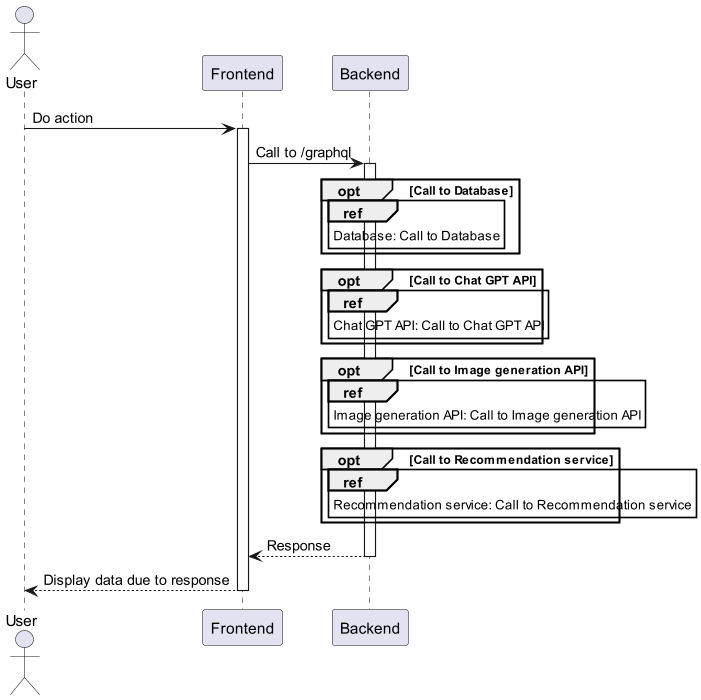
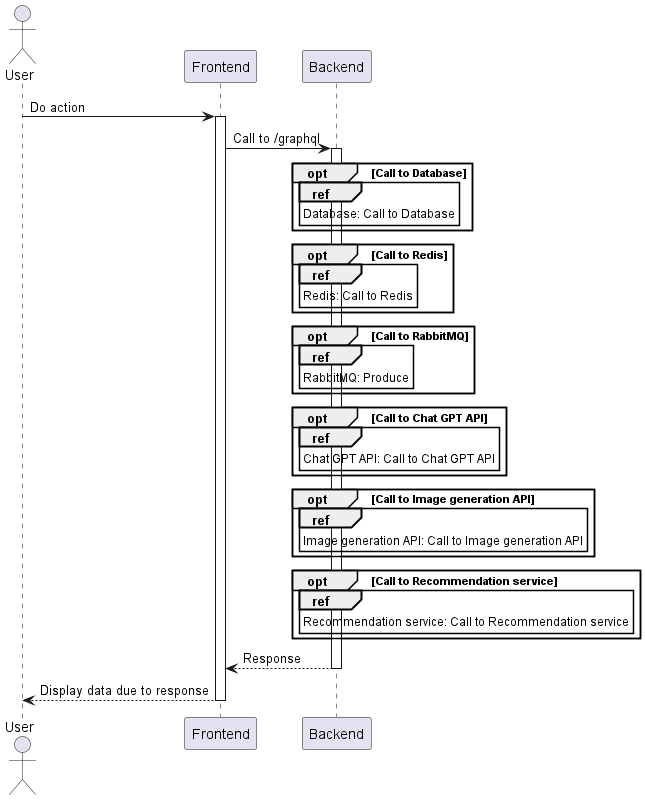
Update sequence diagrams

Changed region(s): [[0.0, 0.06, 1.0, 0.99], [0.0, 0.0, 0.155, 0.18], [0.4651, 0.87, 0.5891, 0.96]]

diff --git a/SequenceDiagrams.md b/SequenceDiagrams.md
@@ -21,7 +21,7 @@ opt Call to Redis
     end
 end
 opt Call to RabbitMQ
-    ref over RabbitMQ
+    ref over Backend
         RabbitMQ: Produce
     end
 end
@@ -69,6 +69,7 @@ return String Response
 participant AnyBackendClass << (C,#ADD1B2) >>
 participant "RabbitMQ" as rabbitmq
 participant RecipeImageConsumer  << (C,#ADD1B2) >>
+participant ImageGenerationAdapter << (C,#ADD1B2) >>
 participant "Database" as db
 participant "ImageGeneration API" as imageGenerationApi
 
@@ -77,8 +78,11 @@ activate rabbitmq
 AnyBackendClass -> rabbitmq: Message
 rabbitmq -> RecipeImageConsumer: Message
 activate RecipeImageConsumer
-RecipeImageConsumer -> imageGenerationApi: API call
+RecipeImageConsumer -> ImageGenerationAdapter: generateImage
+activate ImageGenerationAdapter
+ImageGenerationAdapter -> imageGenerationApi: API call
 activate imageGenerationApi
+return Image
 return Image
 RecipeImageConsumer -> db: Save image
 activate db
@@ -89,6 +93,7 @@ rabbitmq -> AnyBackendClass: Image
 
 @enduml
 ```
+![](media/sequence/backendImageGenerator.png)
 ## Backend calls Database
 ```plantuml
 @startuml
